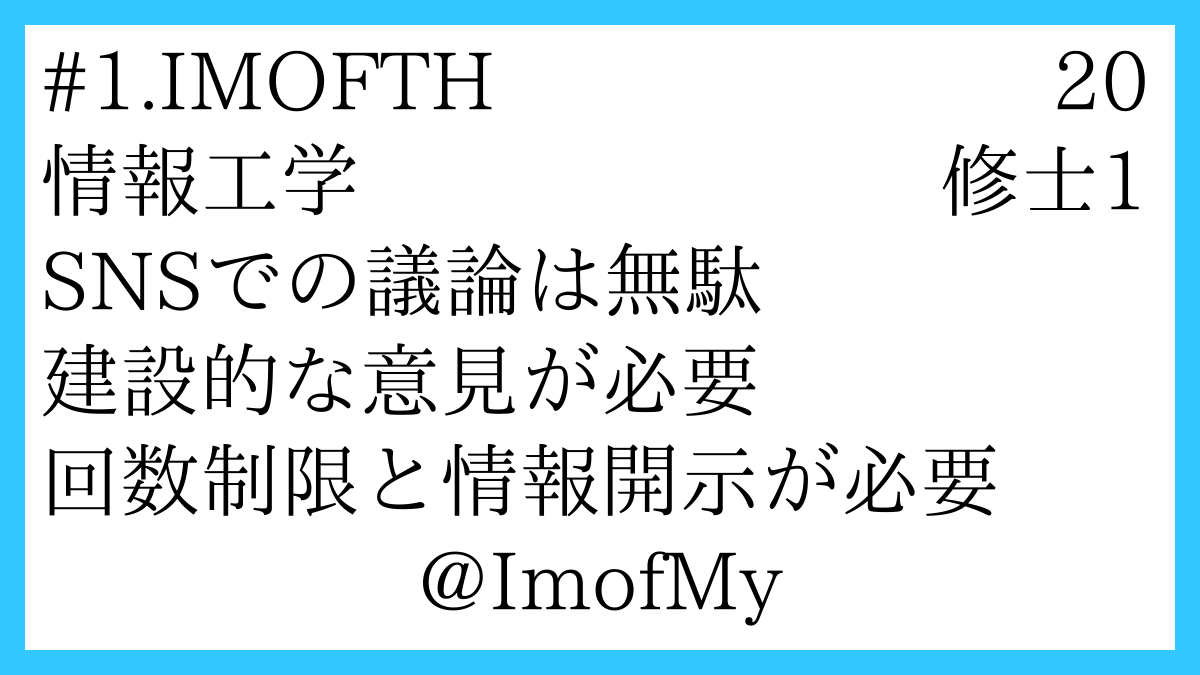
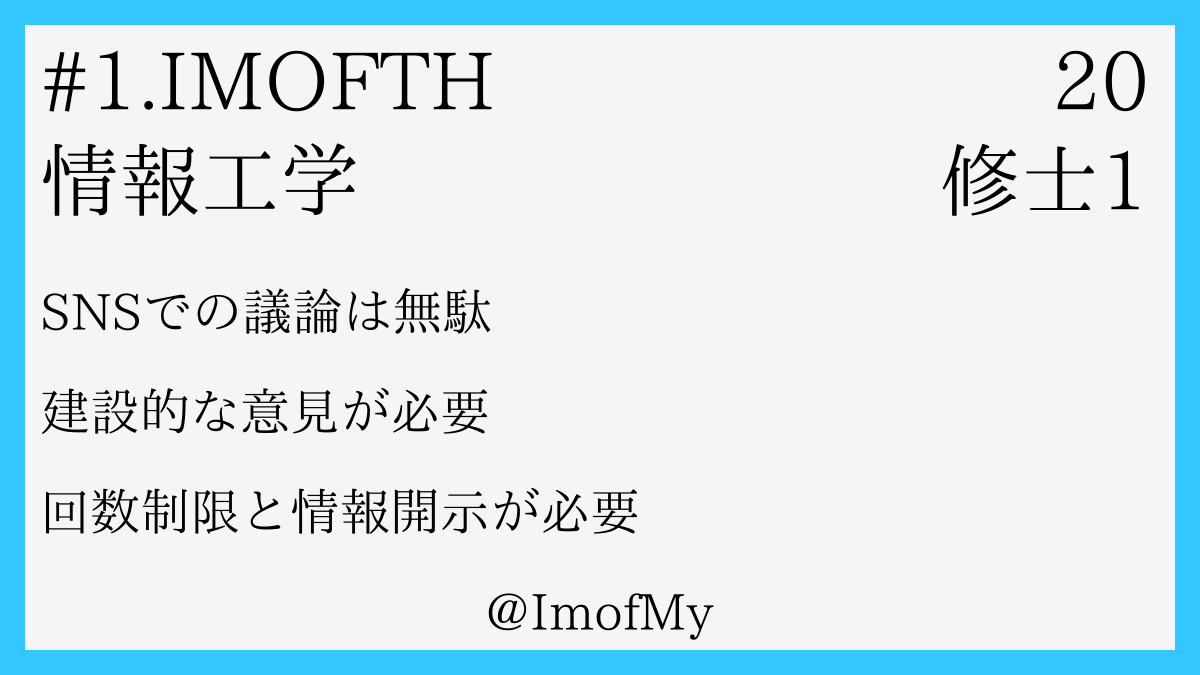
change texts color and size

Changed region(s): [[0.0308, 0.3422, 0.8325, 0.9333]]

diff --git a/main.go b/main.go
@@ -193,7 +193,7 @@ func drawFrame(input CardInfo) (image.Image, bool) {
 
 	m := image.NewRGBA(image.Rect(0, 0, imageWidth, imageHeight)) // 16:9 のpng画像を生成
 	c := color.RGBA{50, 200, 255, 255}                            // RGBA で色を指定(B が 255 なので青?)
-	c2 := color.RGBA{255, 255, 255, 255}                          // RGBA で色を指定(B が 255 なので青?)
+	c2 := color.RGBA{245, 245, 245, 255}                          // RGBA で色を指定(B が 255 なので青?)
 
 	draw.Draw(m, m.Bounds(), &image.Uniform{c}, image.ZP, draw.Src)               // 青い画像を描画
 	rct := image.Rectangle{image.Point{25, 25}, image.Point{1200 - 25, 675 - 25}} // test.jpg をのせる位置を指定する(中央に配置する為に横:25 縦:25 の位置を指定)
@@ -226,7 +226,7 @@ func drawFrame(input CardInfo) (image.Image, bool) {
 
 	face := truetype.NewFace(ft, &opt)
 
-	dr := &font.Drawer{
+	fdr := &font.Drawer{
 		Dst:  m,
 		Src:  image.Black,
 		Face: face,
@@ -235,23 +235,29 @@ func drawFrame(input CardInfo) (image.Image, bool) {
 
 	textTopMargin := 110
 	text2Margin := textTopMargin + (int(opt.Size)+20)*1
-	text3Margin := textTopMargin + (int(opt.Size)+20)*2
-	text4Margin := textTopMargin + (int(opt.Size)+20)*3
-	text5Margin := textTopMargin + (int(opt.Size)+20)*4
-	text6Margin := textTopMargin + (int(opt.Size)+20)*5
+	text3Margin := textTopMargin + (int(opt.Size)+20)*2 + 20
+	text4Margin := textTopMargin + (int(opt.Size)+20)*3 + 20
+	text5Margin := textTopMargin + (int(opt.Size)+20)*4 + 20
+	text6Margin := textTopMargin + (int(opt.Size)+20)*5 + 20
 	textLeftMargin := 40
 	textRightMargin := 1150
 
 	// 座標情報を事前に保持してそれをロードしてくる形で実装したい。
-	drawTextOnImage(dr, input.Hashtag, textLeftMargin, textTopMargin)
-	drawTextOnImage(dr, strconv.Itoa(input.Age), textRightMargin-dr.MeasureString(strconv.Itoa(input.Age)).Ceil(), textTopMargin)
-	drawTextOnImage(dr, input.Position, textLeftMargin, text2Margin)
-	drawTextOnImage(dr, input.Work, textRightMargin-(dr.MeasureString(strconv.Itoa(input.Sex)).Ceil()+dr.MeasureString(input.Work).Ceil()), text2Margin)
-	drawTextOnImage(dr, strconv.Itoa(input.Sex), textRightMargin-dr.MeasureString(strconv.Itoa(input.Sex)).Ceil(), text2Margin)
-	drawTextOnImage(dr, input.Background1, textLeftMargin, text3Margin)
-	drawTextOnImage(dr, input.Background2, textLeftMargin, text4Margin)
-	drawTextOnImage(dr, input.Background3, textLeftMargin, text5Margin)
-	drawTextOnImage(dr, input.TwitterId, (imageWidth-dr.MeasureString(input.TwitterId).Ceil())/2, text6Margin)
+	drawTextOnImage(fdr, input.Hashtag, textLeftMargin, textTopMargin)
+	drawTextOnImage(fdr, strconv.Itoa(input.Age), textRightMargin-fdr.MeasureString(strconv.Itoa(input.Age)).Ceil(), textTopMargin)
+	drawTextOnImage(fdr, input.Position, textLeftMargin, text2Margin)
+	drawTextOnImage(fdr, input.Work, textRightMargin-(fdr.MeasureString(strconv.Itoa(input.Sex)).Ceil()+fdr.MeasureString(input.Work).Ceil()), text2Margin)
+	drawTextOnImage(fdr, strconv.Itoa(input.Sex), textRightMargin-fdr.MeasureString(strconv.Itoa(input.Sex)).Ceil(), text2Margin)
+
+	opt.Size = 50
+	face = truetype.NewFace(ft, &opt)
+	fdr.Face = face
+	drawTextOnImage(fdr, input.Background1, textLeftMargin, text3Margin)
+	drawTextOnImage(fdr, input.Background2, textLeftMargin, text4Margin)
+	drawTextOnImage(fdr, input.Background3, textLeftMargin, text5Margin)
+
+	fdr.Src = image.Black
+	drawTextOnImage(fdr, input.TwitterId, (imageWidth-fdr.MeasureString(input.TwitterId).Ceil())/2, text6Margin)
 
 	//************************************************
 
